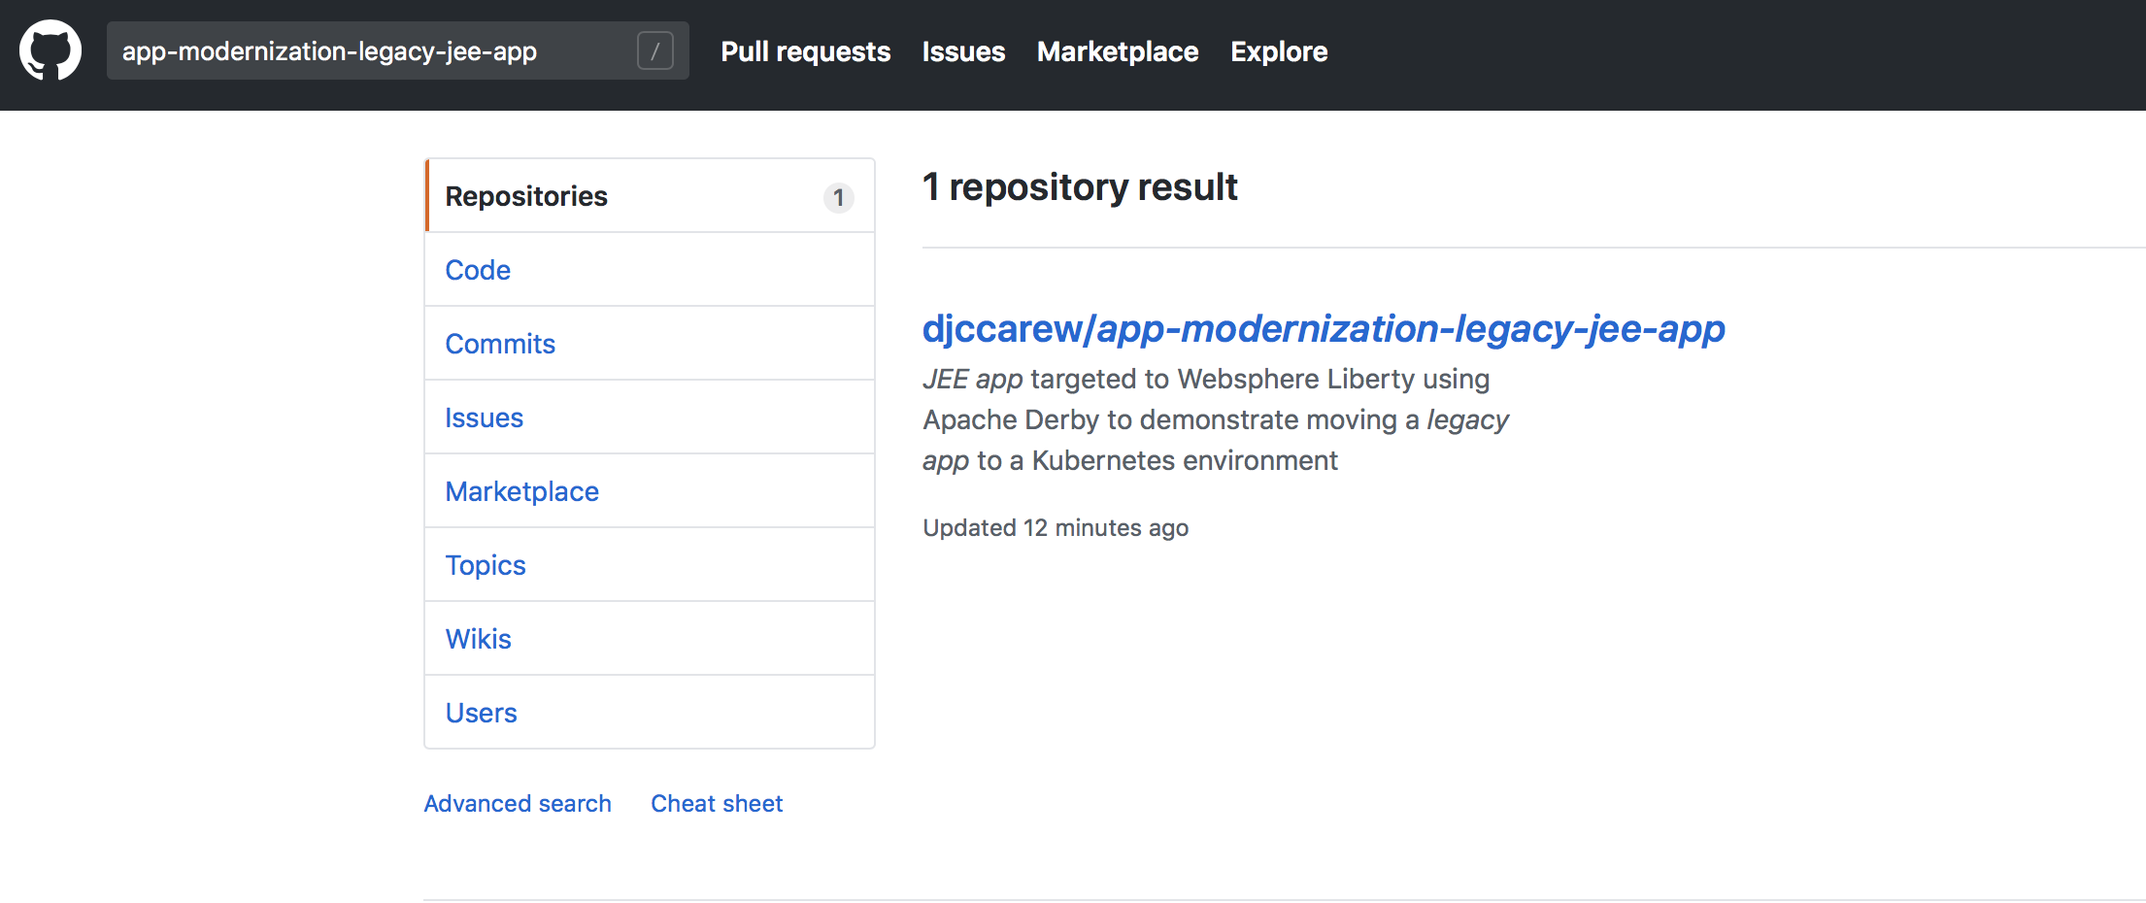
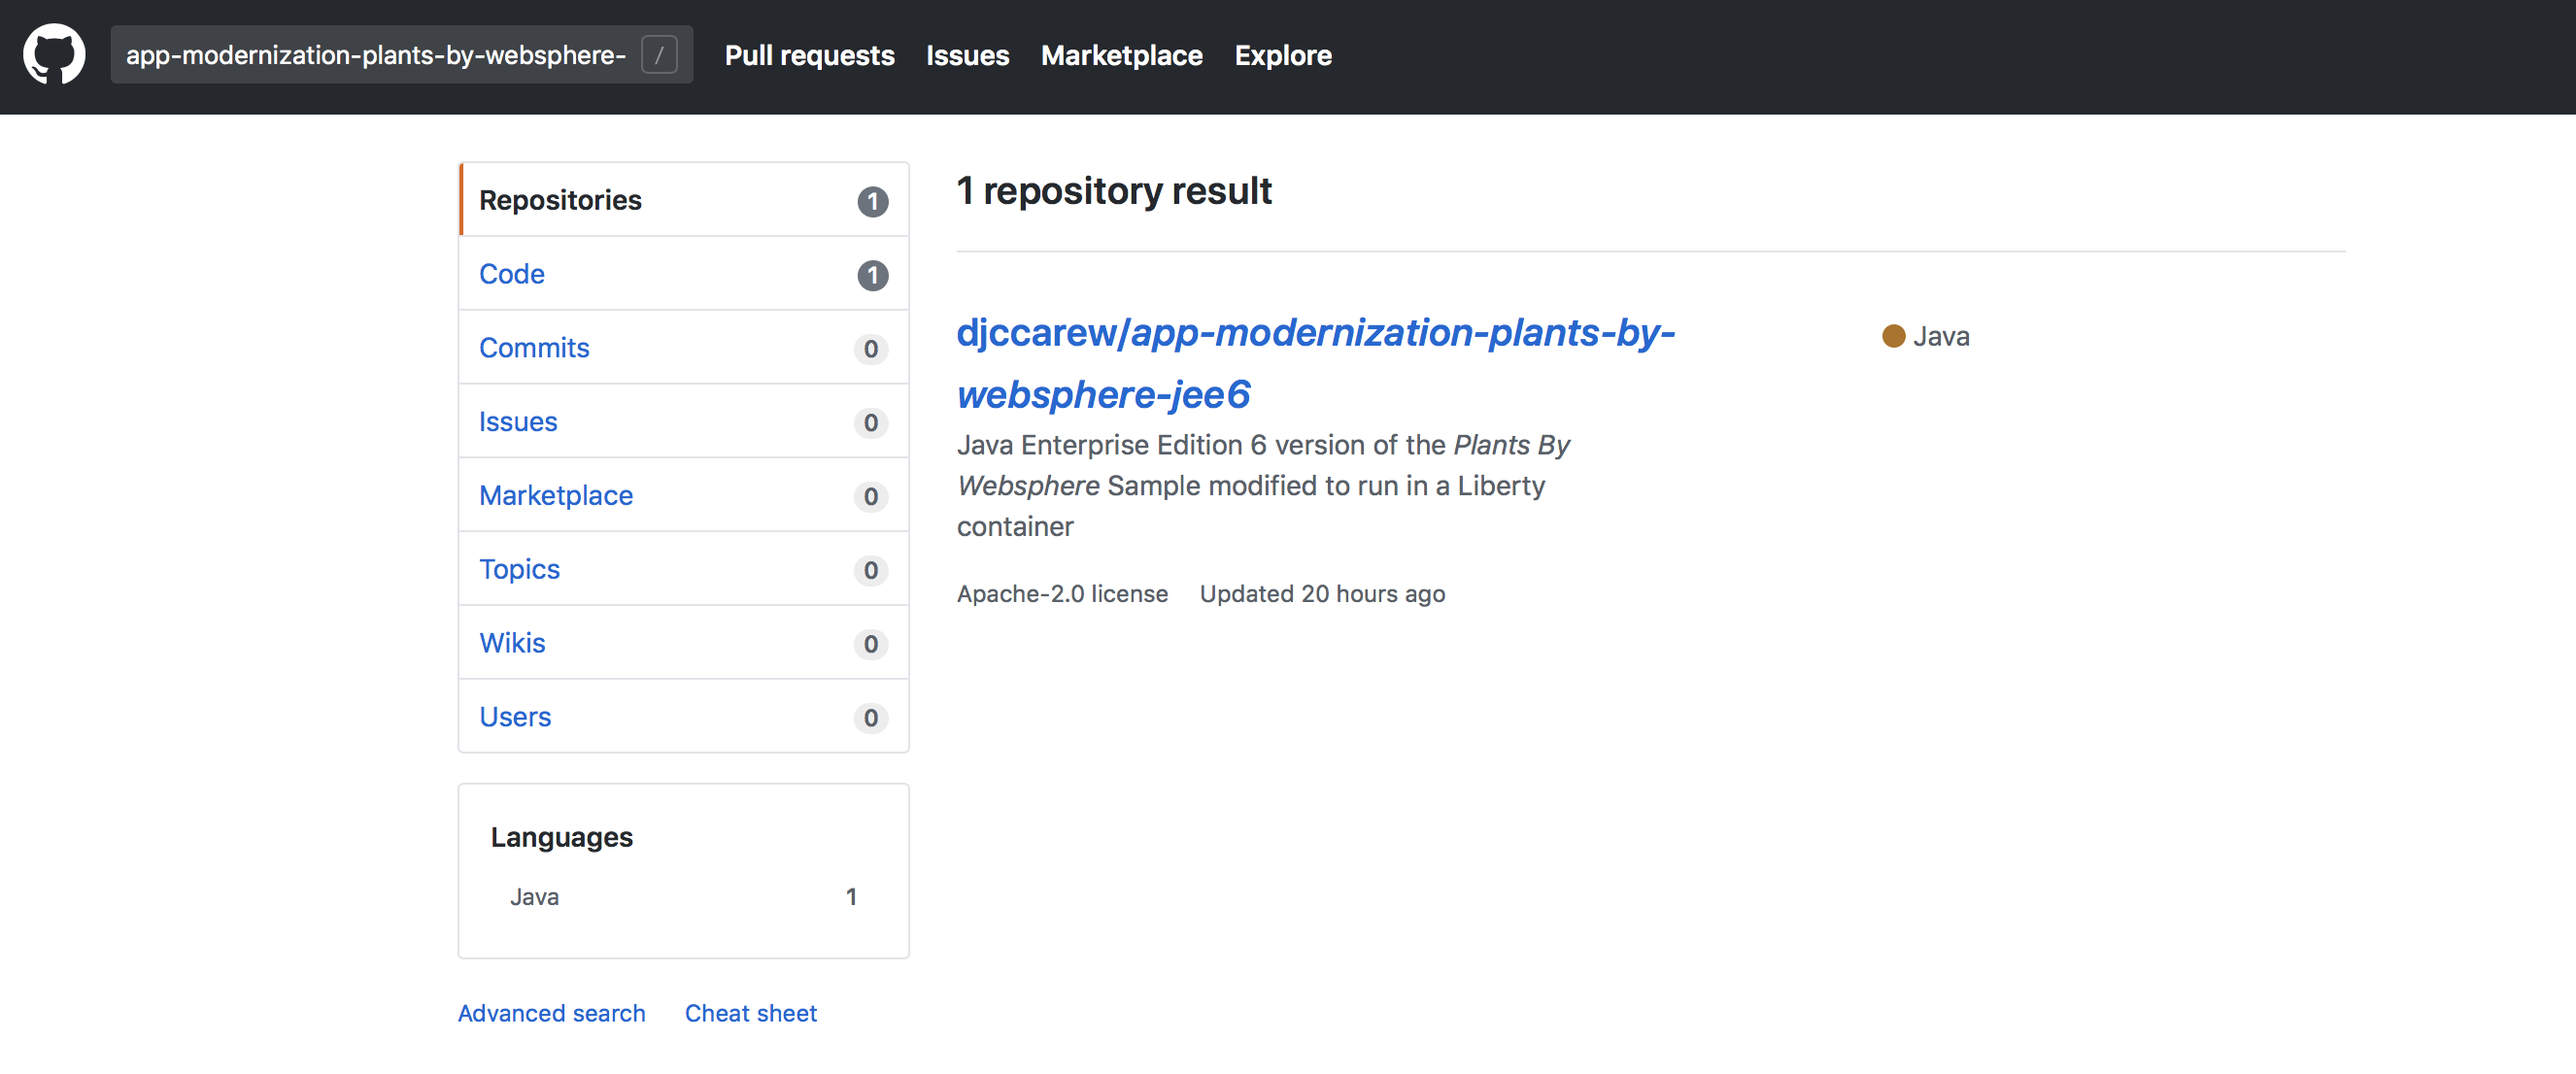
Switched to PBW app as base of lab

diff --git a/README.md b/README.md
@@ -10,7 +10,7 @@ Helm is a package manager for Kubernetes. Package managers automate the process 
 
 An application in Kubernetes typically consists of at least two resource types: a deployment resource, which describes a set of pods to be deployed together, and a services resource, which defines endpoints for accessing the APIs in those pods. The application can also include ConfigMaps, Secrets, and Ingress.
 
-For any deployment, you need several Kubernetes commands (kubectl) to create and configure resources. Instead of manually creating each resource separately, you can create many resources with one command grealtly simplifying the process and allowing you to manage the releted resources as a single unit called a chart.
+For any deployment, you need several Kubernetes commands (kubectl) to create and configure resources. Instead of manually creating each resource separately, you can create many resources with one command greatly simplifying the process and allowing you to manage the releted resources as a single unit called a chart.
 
 A Helm chart repository is an HTTP server that houses packaged charts and an index.yaml file. That file has an index of all the charts in the repository. A chart repository can be any HTTP server that can serve YAML and .tar files and can answer GET requests. Therefore, you have many options for hosting your chart repository. You can use a Google Cloud Storage bucket, an Amazon S3 bucket, GitHub pages, or you can create a web server.
 
@@ -31,24 +31,24 @@ If you haven't already:
 
 1. Login in [your Github account](https://github.com)
 
-2. In the search bar at the top left type in `app-modernization-legacy-jee-app`
+2. In the search bar at the top left type in `app-modernization-plants-by-websphere-jee6`
 
 ![Search results](images/ss1.png)
 
-3. Select the repository `djccarew/app-modernization-legacy-jee-app` and then click on the **Fork** icon
+3. Select the repository `djccarew\app-modernization-plants-by-websphere-jee6` and then click on the **Fork** icon
 
 4. Click the **Clone or download** button and copy the HTTPS URL to your clipboard
 
 ![Clone URL](images/ss3.png)
 
-5. In a terminal window with the git client type in the following commands  appending the HTTS URL from your clipboard
+5. In a terminal window with the git client type in the following commands  appending the HTTPS URL from your clipboard
 
 ```
      git clone [HTTPS URL for NEW REPO]
-     cd app-modernization-legacy-jee-app
+     cd app-modernization-plants-by-websphere-jee6
 
 ```
-6. Using the Github's UI  file browser to  take a look at the files in the **chart** folder. This is a Helm chart with child charts for the web app and Apache Derby(database)  portions of the app.
+6. Using the Github's UI  file browser to  take a look at the files in the **chart** folder. This is a Helm chart with child charts for the web app and MariaDB  portions of the app. Since there already is a published chart for  MariaDB, it is listed  as a required child chart in the file **requirements.yaml** and you don't have to create a chart for the MariaDB portion of the app.
 
 ### Step 2: Create the artifacts for the Helm repository
 
@@ -58,23 +58,16 @@ If you haven't already:
 ```
    # Initialize helm user profile with a one-time action
    helm init --client-only
-   
-   # Create  a folder for the Helm repository
-   mkdir -p docs/charts
 
-   # Helm charts get their names from the  folder they reside in.
-   # Rename the folder to something unique  when using a shared ICP Cluster for this lab
-   mv chart/liberty-starter chart/liberty-starter-$USER
-
-   # Fixup chart metadata so chart name matches new folder name
-   sed -i "s/liberty-starter/liberty-starter-$USER/" chart/liberty-starter-$USER/Chart.yaml
+   # Fetch required MariaDB chart
+   helm dependency update chart/pbw-liberty-mariadb
 
    # Generate the chart archive.
-   helm package chart/liberty-starter-$USER -d docs/charts
+   helm package chart/pbw-liberty-mariadb -d docs/charts
 
    # Generate index for repository
    # substitute your github username for [ghuname]
-   helm repo index docs/charts --url https://[ghuname].github.io/app-modernization-legacy-jee-app/charts
+   helm repo index docs/charts --url https://[ghuname].github.io/app-modernization-plants-by-websphere-jee6/charts
 
 ```
 
@@ -82,8 +75,8 @@ If you haven't already:
 ```
    # Configure your git profile on the system
    git config --global user.email "[your-github-account-email]"
-   git config --global user.name "[your name in git]"
-   
+   git config --global user.name "[your github username]"
+
    # Flag changes to be pushed
    git add .
 
@@ -102,7 +95,7 @@ If you haven't already:
 
 2. In your terminal window type the following command, substituting your github username for *[ghuname]*. Verify that the contents of *index.yaml* are returned
 ```
-   curl https://[ghuname].github.io/app-modernization-legacy-jee-app/charts/index.yaml
+   curl https://[ghuname].github.io/app-modernization-plants-by-websphere-jee6/charts/index.yaml
 ```
 
 ### Step 4: Add your repo to the IBM Cloud Private list of repos
@@ -110,19 +103,19 @@ If you haven't already:
 1. In your terminal window type the following command, substituting your logged in  username for $USER as the repo name  and your github username for [ghuname]  **Note**: Your repo name must be unique across the IBM Cloud Private  Cluster
 ```
    # Substitute your github username for [ghuname]
-   helm repo add $USER-repo https://[ghuname].github.io/app-modernization-legacy-jee-app/charts
+   helm repo add $USER-repo https://[ghuname].github.io/app-modernization-plants-by-websphere-jee6/charts
 ```
 
 ### Step 5: Deploy the legacy JEE app from your new Helm repo
 
 1. In your terminal window type the following command, substituting your logged in  username for $USER and your ICP namespace for [yournamespace].  **Note**: Helm charts can be deployed multiple  times but each deployment must have a unique name
 ```
-   helm install --name liberty-starter-$USER $USER-repo/liberty-starter-$USER --tls
+   helm install --name pbw-liberty-mariadb-$USER --set liberty.image.namespace=[yournamespace] $USER-repo/pbw-liberty-mariadb --tls
 ```
 
 ### Step 6: Launch your deployed app
 
-You can run commands to get the endpoint and port number of your deployed Helm release but it's easier to get this info from the  IBM Cloud Private Web UI.
+You can run commands to get the endpoint and port number of your deployed Helm release but it's easy to get this info from the  IBM Cloud Private Web UI.
 
 1. Launch the IBM Cloud Private Web UI using the URL given to you by your instructor and login in.
 
@@ -130,9 +123,15 @@ You can run commands to get the endpoint and port number of your deployed Helm r
 
 3. Look for your Helm Release in the list and click on the **Launch** link on the right
 
-4. Verify that the app's UI opens in another tab. Enter your name in the textbox and hit the return key. Verify that your name appears below the textbox as the app stores your name in a  database and then retrieves it and displays it in the UI.
+4. Verify that the app's UI opens in another tab. Click on the **HELP** link.
 
 ![Running app](images/ss4.png)
+
+5. Click on **Reset database** to populate the MariaDB database with data
+
+6. Verify that browsing different section of the online catalog shows product descriptions and images.
+
+![Online catalog](images/ss5.png)
 
 ## Summary
 
